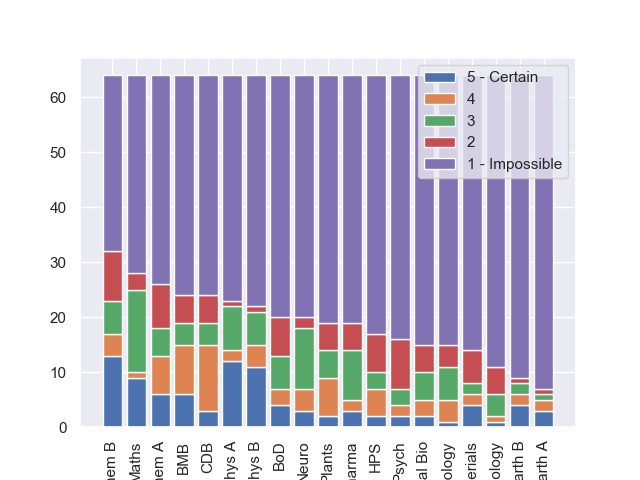
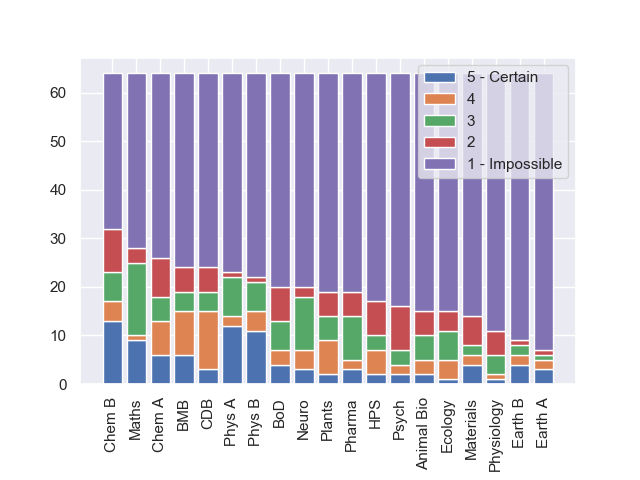
Add files via upload

diff --git a/AnalyzingData.py b/AnalyzingData.py
@@ -5,6 +5,15 @@ from collections import OrderedDict
 import seaborn as sns
 from sklearn.decomposition import PCA
 import plotly.graph_objects as go
+import chart_studio
+
+# save to account
+username = None
+api_key = None
+# uncomment this line to save chart
+# chart_studio.tools.set_credentials_file(username=username, api_key=api_key)
+
+import chart_studio.plotly as py
 
 def dataframe_to_numpy(data):
     N, Col = data.shape
@@ -88,6 +97,7 @@ def plot_stacked_bar(data, series_labels, category_labels=None,
                          va="center")
 
     if save:
+        plt.gcf().subplots_adjust(bottom=0.2)
         plt.savefig(save + 'StackedPlot.png')
     plt.show()
 
@@ -177,7 +187,7 @@ def plot_pca_B(file_name='pca.html'):
                                   line=dict(width=2,
                                             color='DarkSlateGrey')),
                       selector=dict(mode='markers'))
-    fig.write_html(save + file_name)
+    py.plot(fig, filename='pca', auto_open=False)
     fig.show()
 
 
